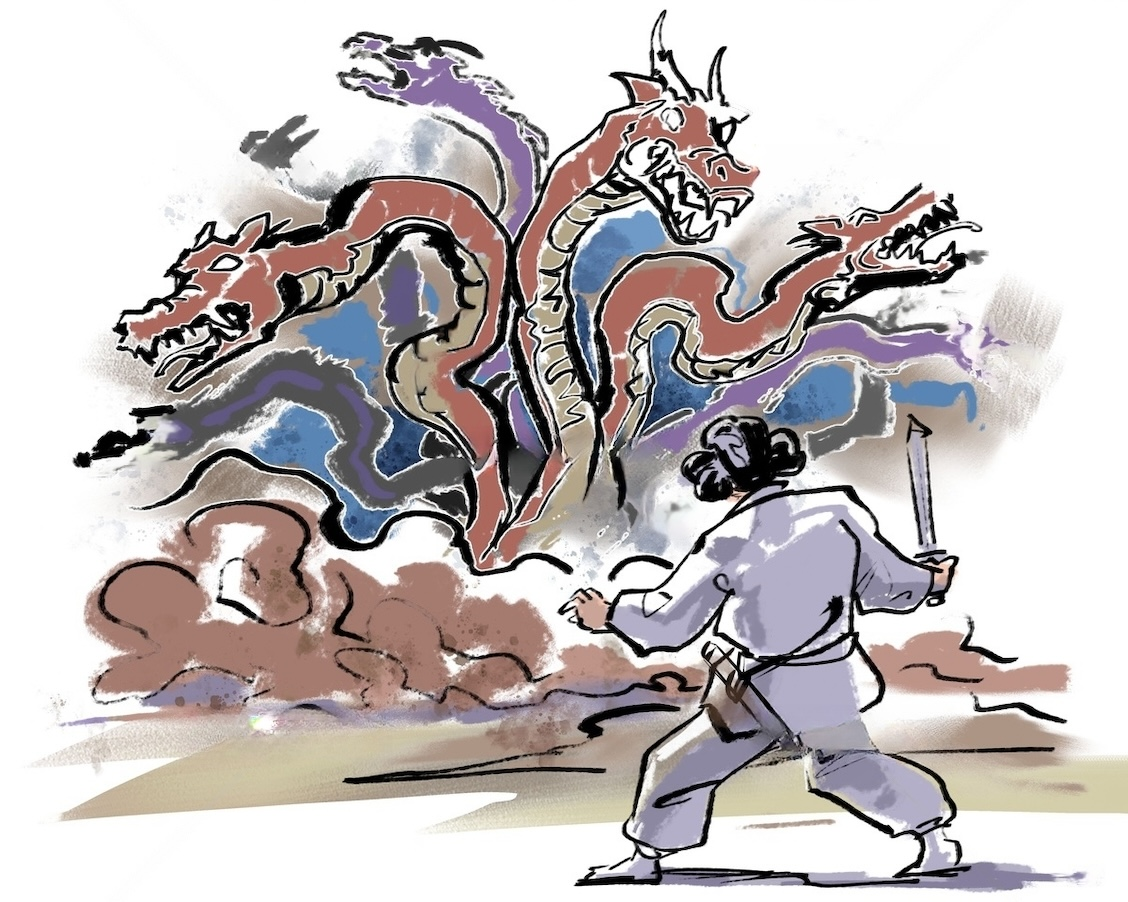
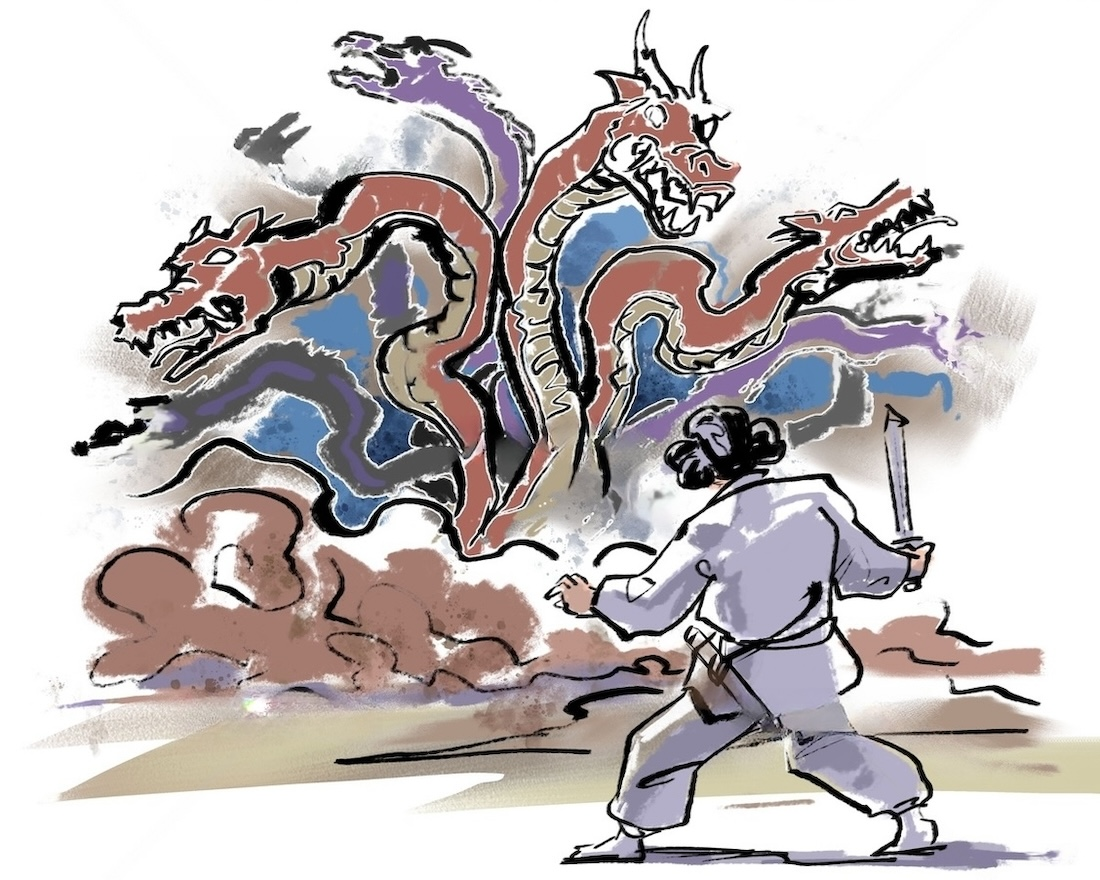
Images' downsize

diff --git a/src/assets/covers/index.ts b/src/assets/covers/index.ts
@@ -3,7 +3,7 @@ import coverZero from './cover_0.webp'
 import coverOne from './tesseract.jpg'
 import coverTwo from './straight_lines.jpg'
 import coverThree from './gradient_descent.jpeg'
-import coverFour from './classification.webp'
+import coverFour from './classification.jpg'
 import coverFive from './backpropagation.webp'
 import coverSix from './generated_girl.webp'
 import coverSeven from './naushika.jpg'
